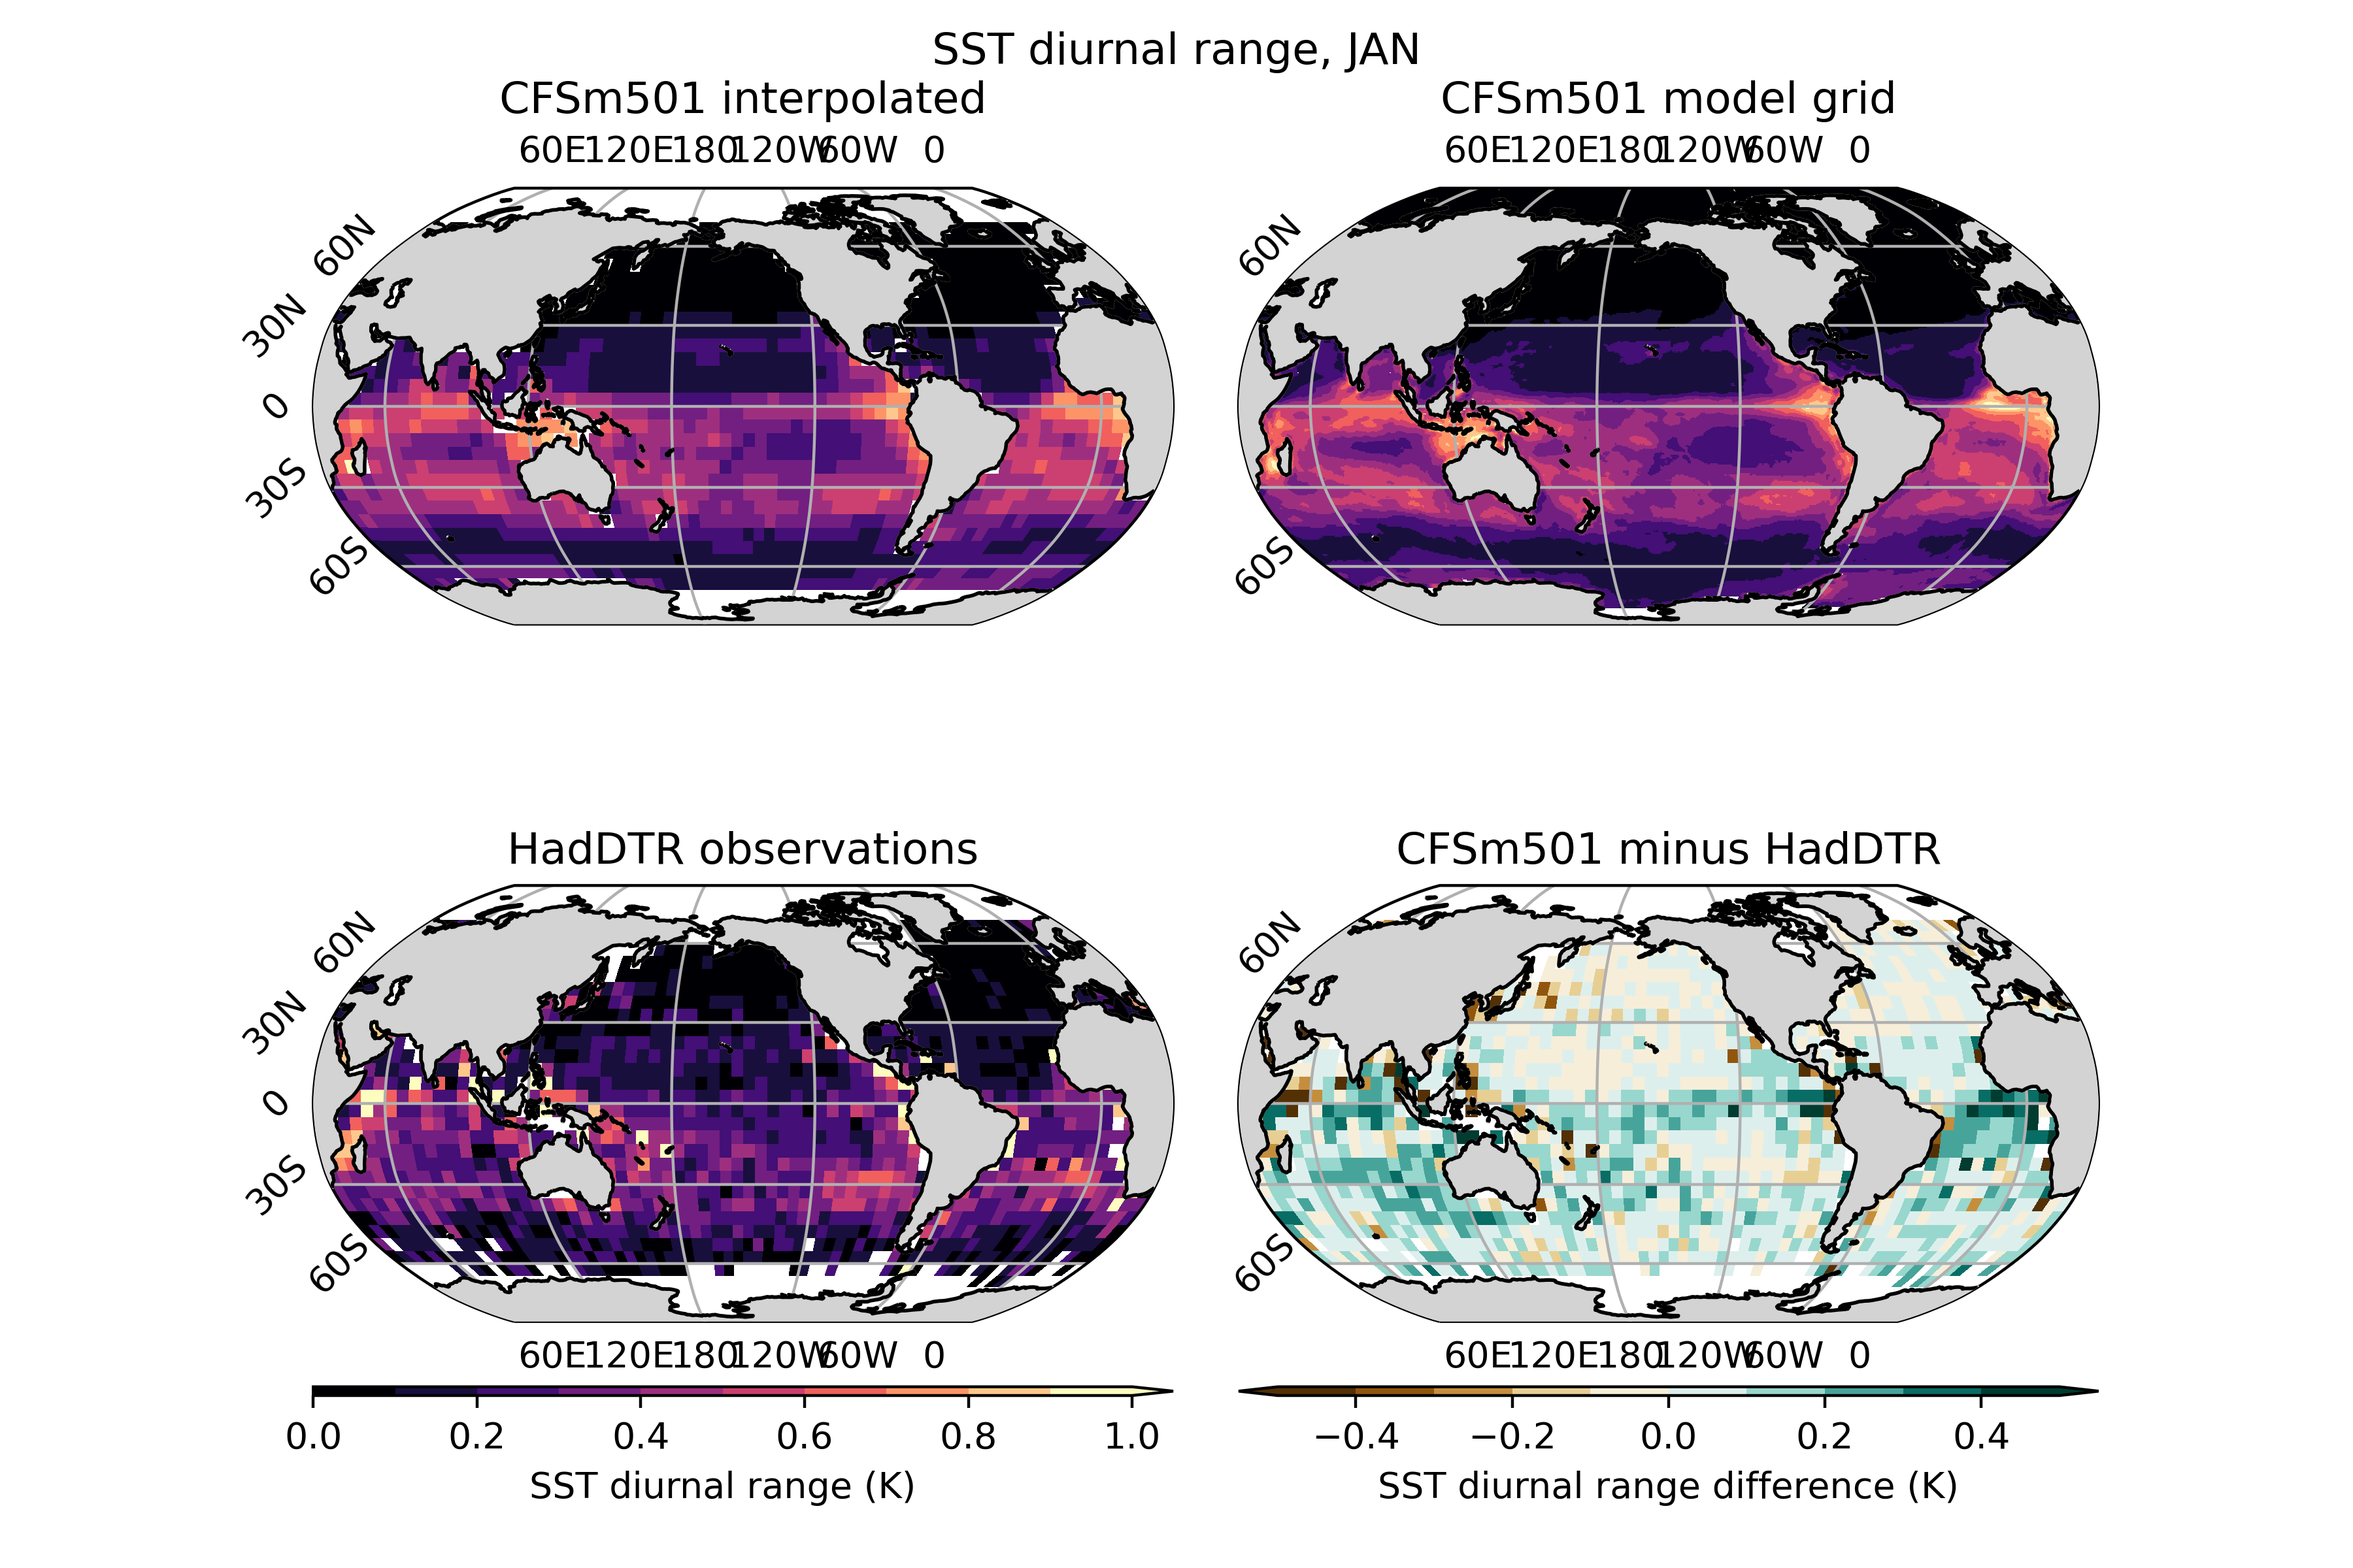
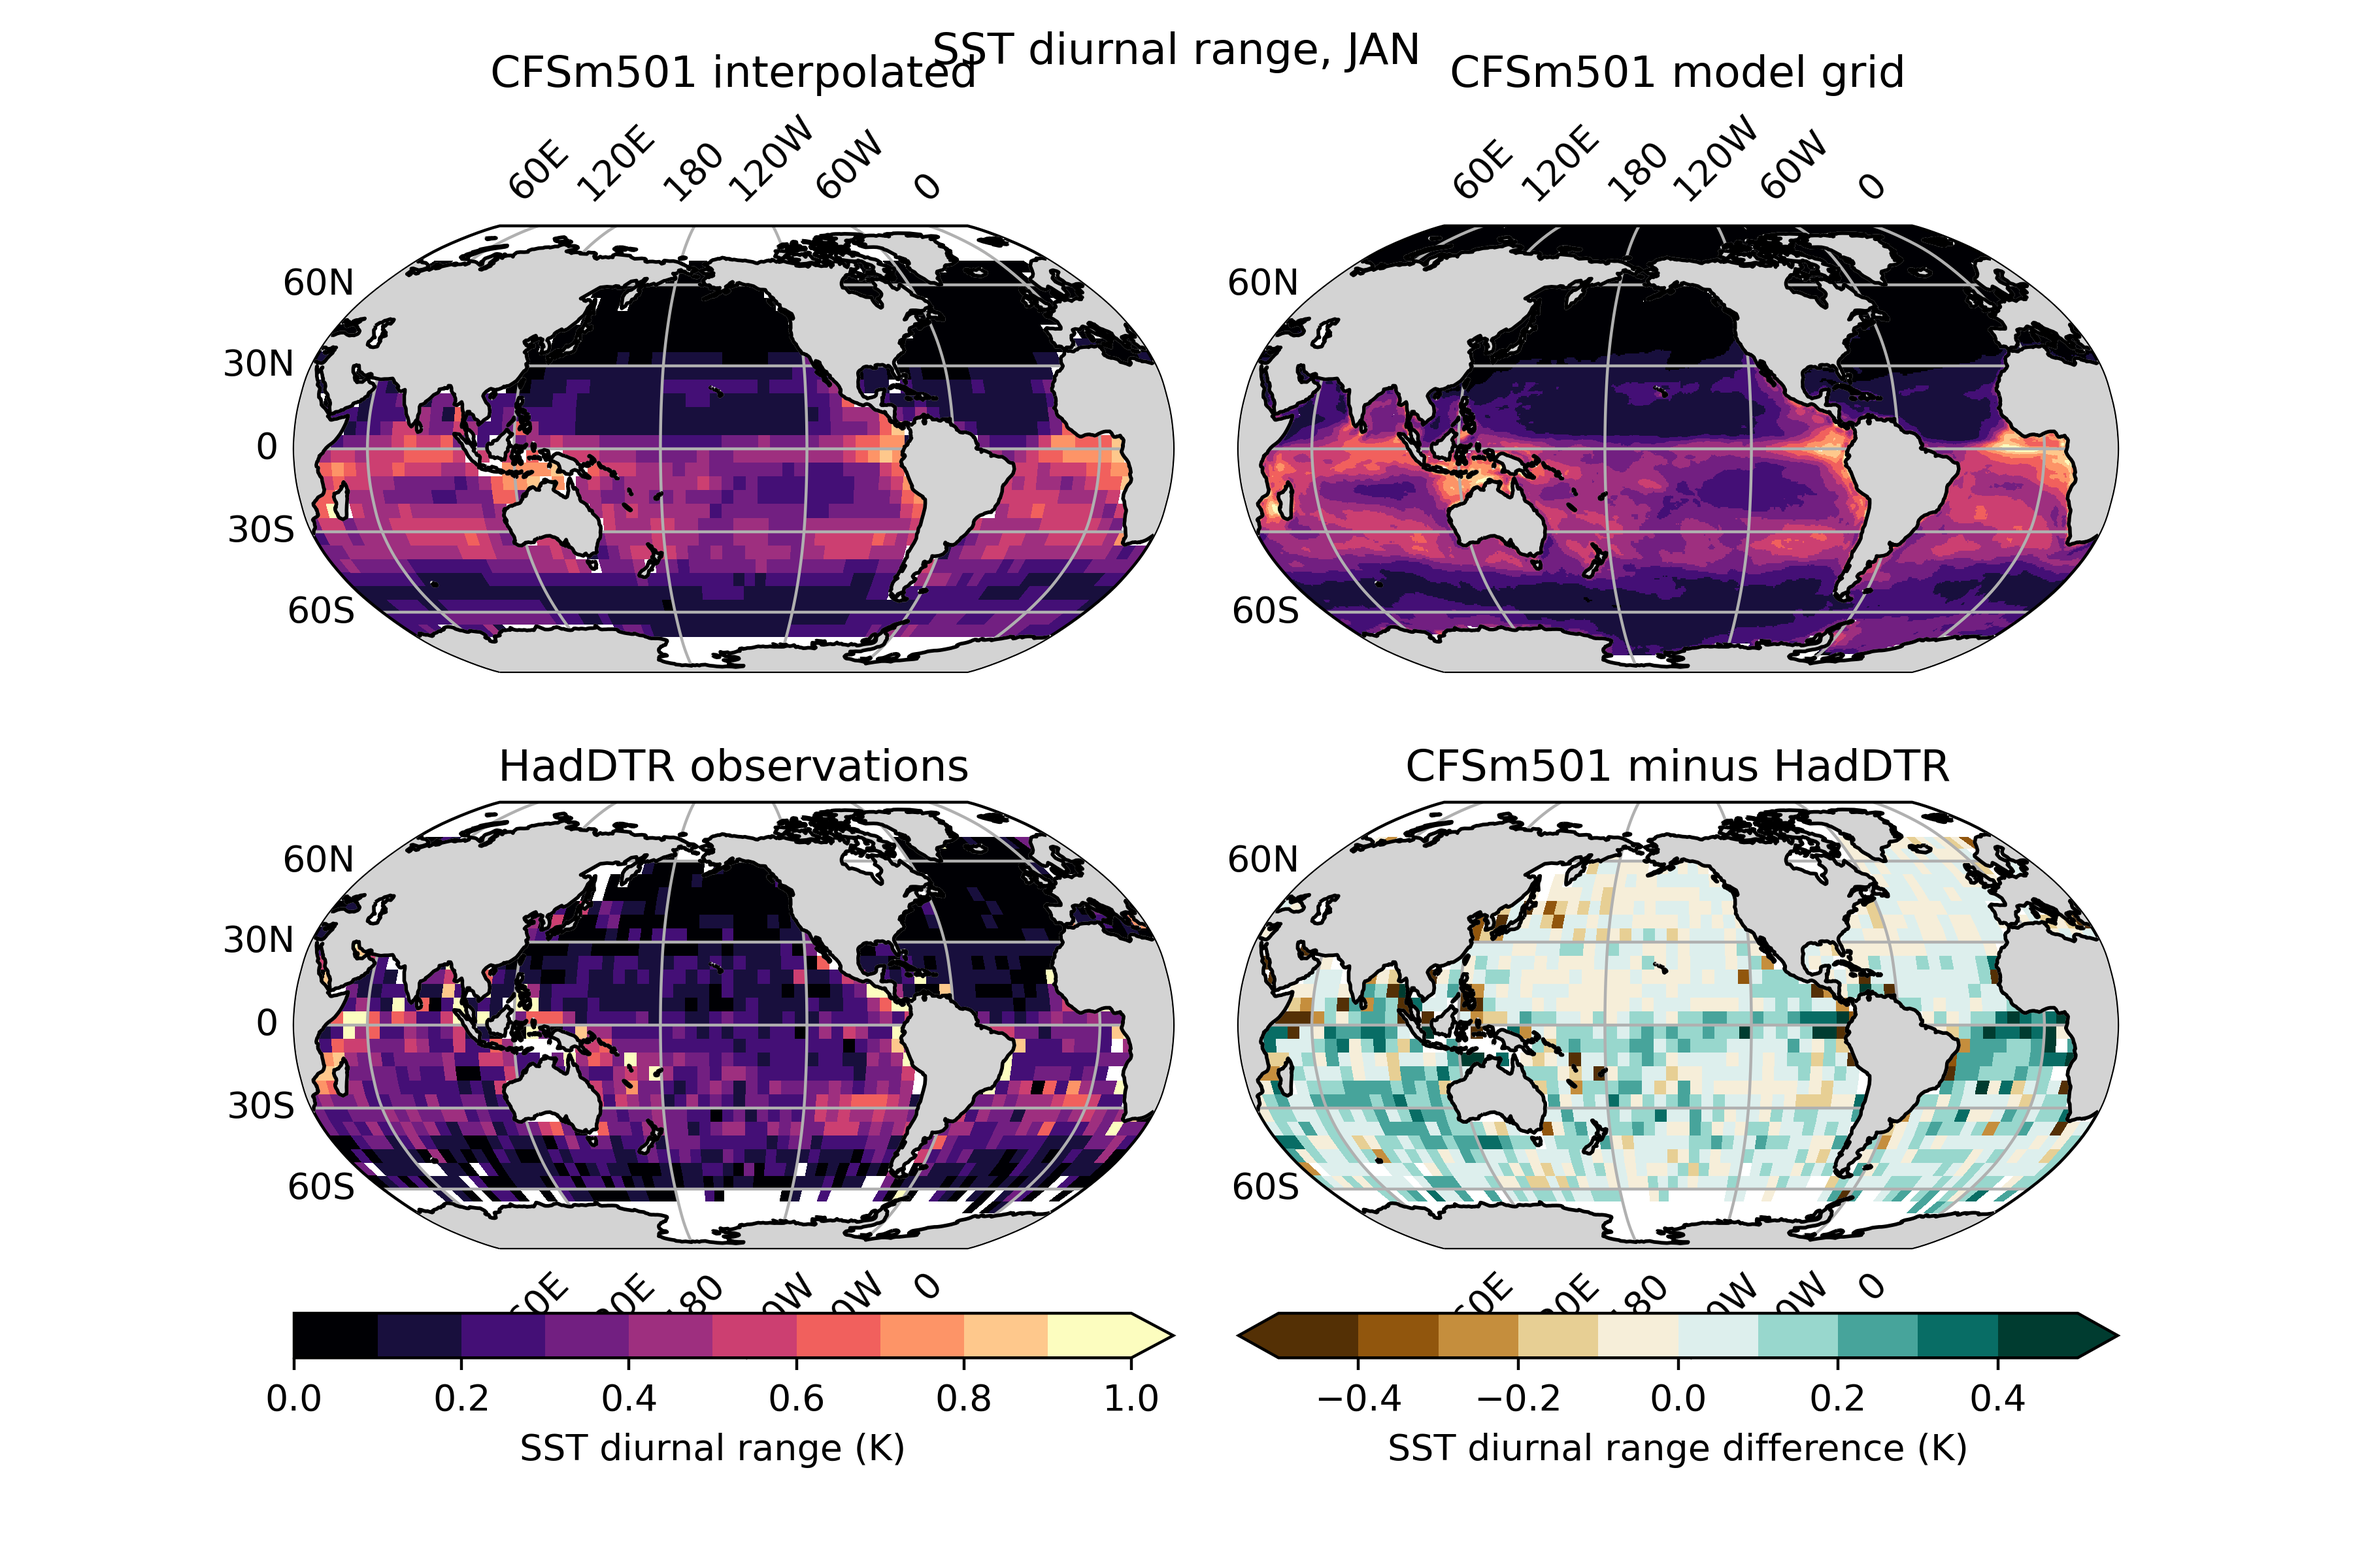
Updates HadDTR maps

diff --git a/diurnal_cycle/analysis/haddtr_comp_maps.py b/diurnal_cycle/analysis/haddtr_comp_maps.py
@@ -95,11 +95,11 @@ def main(plot_month):
                   dict(map_projection=plot_crs))
     axgr = AxesGrid(fig, 111, axes_class=axes_class,
                     nrows_ncols=(2, 2),
-                    axes_pad=(0.25,1.0),
+                    axes_pad=(0.25,0.5),
                     cbar_location='bottom',
                     cbar_mode='edge',
                     cbar_pad=0.25,
-                    cbar_size='2%',
+                    cbar_size='10%',
                     label_mode='')
     
     # Define color maps.
@@ -126,7 +126,7 @@ def main(plot_month):
         # Add features.
         ax.set_global()
         gl = ax.gridlines(draw_labels=True,
-                          ylabel_style={'rotation':45.0},
+                          xlabel_style={'rotation':45.0},
                           xlocs=np.arange(-300, 151, 60),
                           ylocs=np.arange(-90, 91, 30),
                           linewidths=0.3)
@@ -164,11 +164,9 @@ def main(plot_month):
     
     # Add colorbars.
     cba = axgr.cbar_axes[0].colorbar(plots['abs'], 
-                                     pad=0.35, shrink=0.6, aspect=10,
                                      extend='max',
                                      label='SST diurnal range (K)')
     cbd = axgr.cbar_axes[1].colorbar(plots['diff'], 
-                                     pad=0.35, shrink=0.6, aspect=10,
                                      extend='both',
                                      label='SST diurnal range difference (K)')
     
